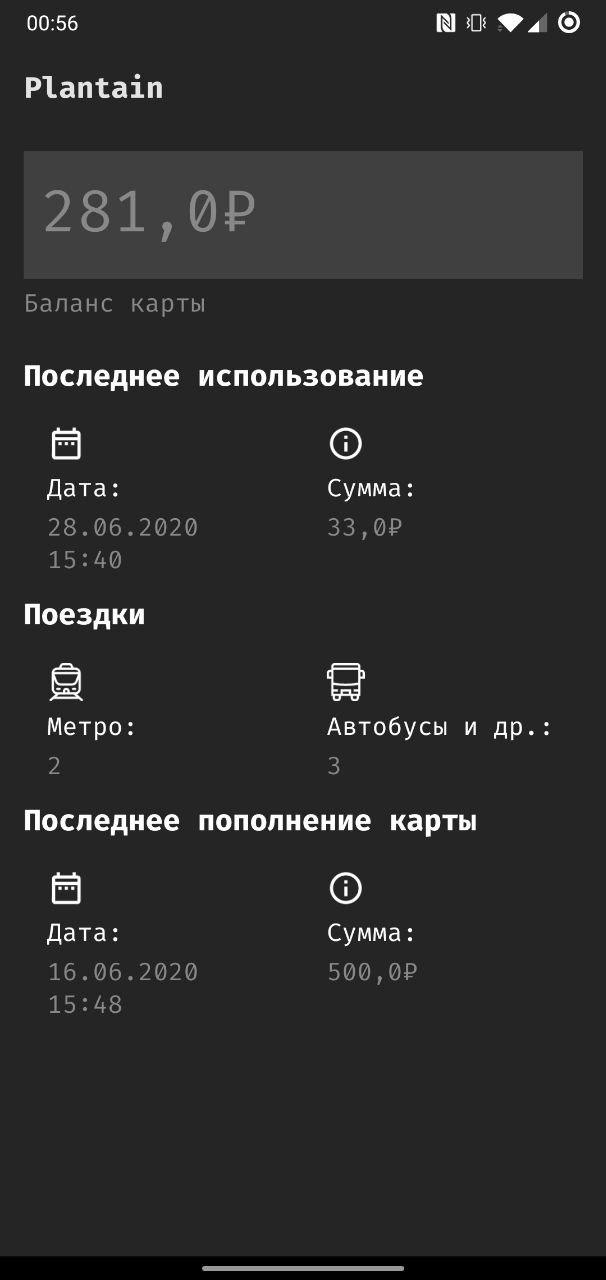
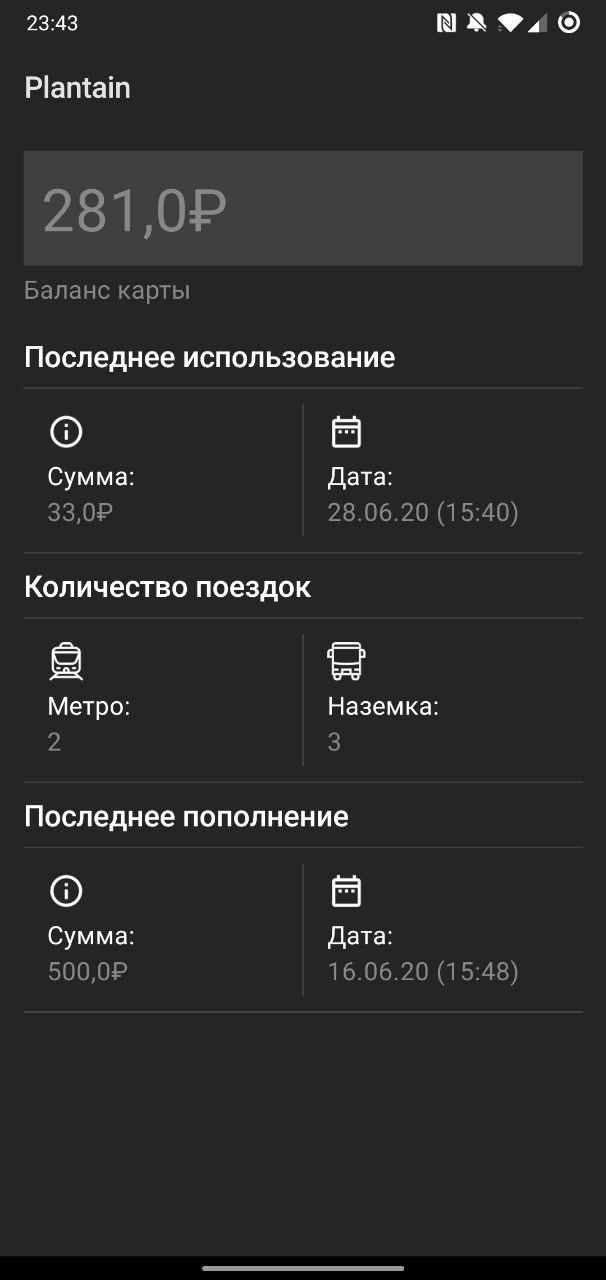
Update UI
Add more dividers zzzz_
Fix gravity in Row

diff --git a/app/src/main/java/kek/plantain/ui/info/SuccessContent.kt b/app/src/main/java/kek/plantain/ui/info/SuccessContent.kt
@@ -1,8 +1,8 @@
 package kek.plantain.ui.info
 
 import androidx.compose.Composable
+import androidx.ui.core.Alignment
 import androidx.ui.core.Modifier
-import androidx.ui.foundation.Box
 import androidx.ui.foundation.Text
 import androidx.ui.foundation.VerticalScroller
 import androidx.ui.layout.*
@@ -25,54 +25,79 @@ import kek.plantain.utils.getFakeDump
 fun SuccessContent(dump: Dump) {
     VerticalScroller(modifier = Modifier.fillMaxSize()) {
         Column(modifier = Modifier.padding(16.dp)) {
-            Box(children = { HintTextField(hint = "${dump.balance() / 100},${dump.balance() % 100}₽") })
+            HintTextField(hint = "${dump.balance() / 100},${dump.balance() % 100}₽")
             Spacer(modifier = Modifier.preferredHeight(4.dp))
             Text("Баланс карты", style = MaterialTheme.typography.body2)
             Spacer(modifier = Modifier.preferredHeight(20.dp))
             Text(text = "Последнее использование", style = MaterialTheme.typography.h6)
-            Row(modifier = Modifier.padding(top = 8.dp)) {
+            Divider(modifier = Modifier.padding(top = 8.dp, bottom = 8.dp))
+            Row {
                 DetailsBox(
                         asset = Icons.Outlined.Info,
                         title = "Сумма:",
-                        summary = "${dump.lastPayedCost() / 100},${dump.lastPayedCost() % 100}₽"
+                        summary = "${dump.lastPayedCost() / 100},${dump.lastPayedCost() % 100}₽",
+                        modifier = Modifier.gravity(Alignment.CenterVertically)
                 )
-                Divider(modifier = Modifier.height(90.dp).width(1.dp))
+                Divider(
+                        modifier = Modifier
+                                .height(90.dp)
+                                .width(1.dp)
+                                .gravity(Alignment.CenterVertically)
+                )
                 DetailsBox(
                         asset = Icons.Outlined.DateRange,
                         title = "Дата:",
-                        summary = dump.lastUsedDate()
+                        summary = dump.lastUsedDate(),
+                        modifier = Modifier.gravity(Alignment.CenterVertically)
                 )
             }
-            Spacer(modifier = Modifier.preferredHeight(8.dp))
+            Divider(modifier = Modifier.padding(top = 8.dp, bottom = 8.dp))
             Text(text = "Количество поездок", style = MaterialTheme.typography.h6)
-            Row(modifier = Modifier.padding(top = 8.dp)) {
+            Divider(modifier = Modifier.padding(top = 8.dp, bottom = 8.dp))
+            Row {
                 DetailsBox(
-                    asset = vectorResource(id = R.drawable.ic_metro),
-                    title = "Метро:",
-                    summary = dump.subwayTravelCount().toString()
+                        asset = vectorResource(id = R.drawable.ic_metro),
+                        title = "Метро:",
+                        summary = dump.subwayTravelCount().toString(),
+                        modifier = Modifier.gravity(Alignment.CenterVertically)
                 )
-                Divider(modifier = Modifier.height(90.dp).width(1.dp))
+                Divider(
+                        modifier = Modifier
+                                .height(90.dp)
+                                .width(1.dp)
+                                .gravity(Alignment.CenterVertically)
+                )
                 DetailsBox(
-                    asset = vectorResource(id = R.drawable.ic_bus),
-                    title = "Наземка:",
-                    summary = dump.groundTravelCount().toString()
+                        asset = vectorResource(id = R.drawable.ic_bus),
+                        title = "Наземка:",
+                        summary = dump.groundTravelCount().toString(),
+                        modifier = Modifier.gravity(Alignment.CenterVertically)
                 )
             }
-            Spacer(modifier = Modifier.preferredHeight(8.dp))
+            Divider(modifier = Modifier.padding(top = 8.dp, bottom = 8.dp))
             Text(text = "Последнее пополнение", style = MaterialTheme.typography.h6)
-            Row(modifier = Modifier.padding(top = 8.dp)) {
+            Divider(modifier = Modifier.padding(top = 8.dp, bottom = 8.dp))
+            Row {
                 DetailsBox(
                         asset = Icons.Outlined.Info,
                         title = "Сумма:",
-                        summary = "${dump.lastPaymentAmount() / 100},${dump.lastPaymentAmount() % 100}₽"
+                        summary = "${dump.lastPaymentAmount() / 100},${dump.lastPaymentAmount() % 100}₽",
+                        modifier = Modifier.gravity(Alignment.CenterVertically)
                 )
-                Divider(modifier = Modifier.height(90.dp).width(1.dp))
+                Divider(
+                        modifier = Modifier
+                                .height(90.dp)
+                                .width(1.dp)
+                                .gravity(Alignment.CenterVertically)
+                )
                 DetailsBox(
                         asset = Icons.Outlined.DateRange,
                         title = "Дата:",
-                        summary = dump.lastPaymentDate()
+                        summary = dump.lastPaymentDate(),
+                        modifier = Modifier.gravity(Alignment.CenterVertically)
                 )
             }
+            Divider(modifier = Modifier.padding(top = 8.dp, bottom = 8.dp))
         }
     }
 }

diff --git a/app/src/main/java/kek/plantain/ui/common/DetailsBox.kt b/app/src/main/java/kek/plantain/ui/common/DetailsBox.kt
@@ -20,9 +20,9 @@ import androidx.ui.tooling.preview.Preview
 import androidx.ui.unit.dp
 
 @Composable
-fun DetailsBox(asset: VectorAsset, title: String, summary: String) {
+fun DetailsBox(asset: VectorAsset, title: String, summary: String, modifier: Modifier = Modifier) {
     Box(
-        modifier = Modifier
+        modifier = modifier
             .padding(top = 8.dp, bottom = 8.dp, start = 16.dp, end = 16.dp)
             .weight(1f)
     ) {
